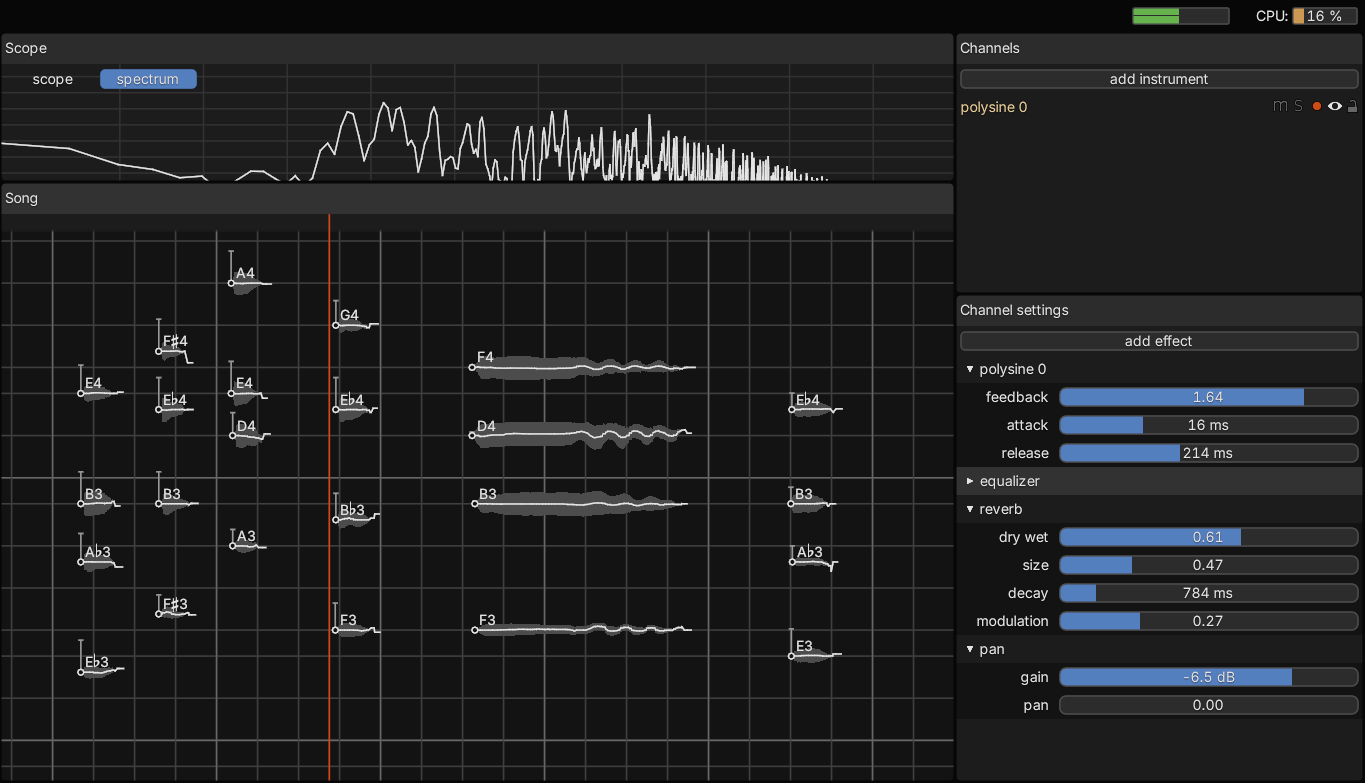
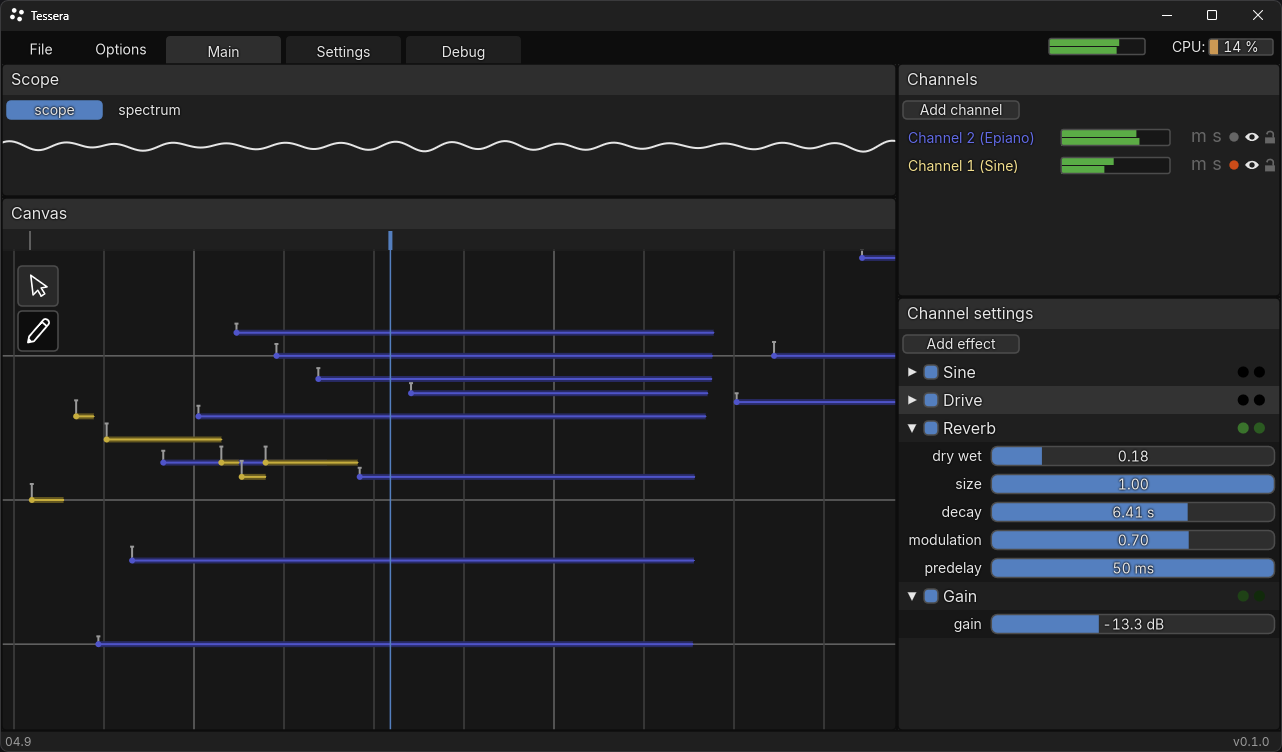
update screenshot and readme

diff --git a/readme.md b/readme.md
@@ -4,9 +4,11 @@
 
 Experimental DAW with a focus on microtonal composition, expressiveness and physical modelling.
 
-GUI parts are written in lua, the audio backend is in Rust.
+[Get the latest release here.](https://github.com/Sin-tel/tessera/releases/latest)
 
-When things stabilize I will provide builds.
+Windows only for now, if you want to help test the Linux and MacOS builds, you can download them in from the workflows in the [actions](https://github.com/Sin-tel/tessera/actions) tab.
+
+For help, see the [manual](./manual.md).
 
 ## Build instructions
 * Make sure you have installed [Rust](https://www.rust-lang.org/tools/install).
